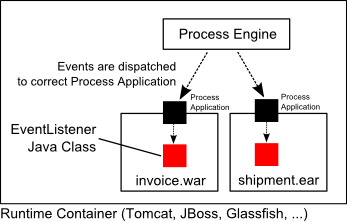
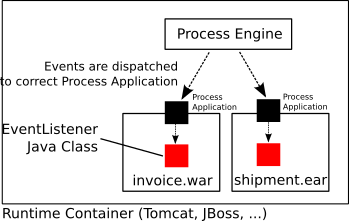
task(user guide): remove references to GlassFish
related to #CAM-6469

diff --git a/content/user-guide/process-applications/the-process-application-class.md b/content/user-guide/process-applications/the-process-application-class.md
@@ -13,7 +13,7 @@ menu:
 You can delegate the bootstrapping of the process engine and process deployment to a process application class. The basic ProcessApplication functionality is provided by the `org.camunda.bpm.application.AbstractProcessApplication` base class. Based on this class there is a set of environment-specific sub classes that realize integration within a specific environment:
 
 * **ServletProcessApplication**: To be used for process applications in a Servlet Container like Apache Tomcat.
-* **EjbProcessApplication**: To be used in a Java EE application server like JBoss, Glassfish or IBM WebSphere Application Server.
+* **EjbProcessApplication**: To be used in a Java EE application server like JBoss or IBM WebSphere Application Server.
 * **EmbeddedProcessApplication**: To be used when embedding the process engine in an ordinary Java SE application.
 * **SpringProcessApplication**: To be used for bootstrapping the process application from a Spring Application Context.
 
@@ -22,7 +22,7 @@ In the following section, we walk through the different implementations and disc
 
 # The ServletProcessApplication
 
-**Supported on:** Apache Tomcat, JBoss/Wildfly, GlassFish. The Servlet process application is supported on all containers. Read the [note about Servlet Process Application and EJB/Java EE containers]({{< relref "#using-the-servletprocessapplication-inside-an-ejb-java-ee-container-such-as-glassfish-or-jboss" >}})
+**Supported on:** Apache Tomcat, JBoss/Wildfly. The Servlet process application is supported on all containers. Read the [note about Servlet Process Application and EJB/Java EE containers]({{< relref "#using-the-servletprocessapplication-inside-an-ejb-java-ee-container-such-as-jboss" >}})
 
 **Packaging**: WAR (or embedded WAR inside EAR)
 
@@ -72,9 +72,9 @@ In a Pre-Servlet 3.0 container such as Apache Tomcat 6 (or JBoss Application Ser
 ```
 
 
-## Using the ServletProcessApplication Inside an EJB/Java EE Container such as Glassfish or JBoss
+## Using the ServletProcessApplication Inside an EJB/Java EE Container such as JBoss
 
-You can use the ServletProcessApplication inside an EJB / Java EE Container such as Glassfish or JBoss. Process application bootstrapping and deployment will work in the same way. However, you will not be able to use all Java EE features at runtime. In contrast to the `EjbProcessApplication` (see the next section), the `ServletProcessApplication` does not perform proper Java EE cross-application context switching. When the process engine invokes Java Delegates from your application, only the Context Class Loader of the current Thread is set to the classloader of your application. This does allow the process engine to resolve Java Delegate implementations from your application but the container will not perform an EE context switch to your application. As a consequence, if you use the ServletProcessApplciation inside a Java EE container, you will not be able to use features like:
+You can use the ServletProcessApplication inside an EJB / Java EE Container such as JBoss. Process application bootstrapping and deployment will work in the same way. However, you will not be able to use all Java EE features at runtime. In contrast to the `EjbProcessApplication` (see the next section), the `ServletProcessApplication` does not perform proper Java EE cross-application context switching. When the process engine invokes Java Delegates from your application, only the Context Class Loader of the current Thread is set to the classloader of your application. This does allow the process engine to resolve Java Delegate implementations from your application but the container will not perform an EE context switch to your application. As a consequence, if you use the ServletProcessApplciation inside a Java EE container, you will not be able to use features like:
 
   * using CDI beans and EJBs as JavaDelegate implementations in combination with the Job Executor,
   * using @RequestScoped CDI Beans with the Job Executor,
@@ -85,7 +85,7 @@ If your application does not use such features, it is perfectly fine to use the 
 
 # The EjbProcessApplication
 
-**Supported on:** JBoss/Wildfly, GlassFish. The EjbProcessApplication is supported on Java EE 6 containers or higher. It is not supported on Servlet Containers like Apache Tomcat. It may be adapted to work inside Java EE 5 Containers.
+**Supported on:** JBoss/Wildfly. The EjbProcessApplication is supported on Java EE 6 containers or higher. It is not supported on Servlet Containers like Apache Tomcat. It may be adapted to work inside Java EE 5 Containers.
 
 **Packaging:** JAR, WAR, EAR
 
@@ -276,7 +276,7 @@ When the EjbProcessApplication registers with a process engine (see `ManagementS
 
 # The EmbeddedProcessApplication
 
-**Supported on:** JVM, Apache Tomcat, JBoss/Wildfly, GlassFish
+**Supported on:** JVM, Apache Tomcat, JBoss/Wildfly
 
 **Packaging:** JAR, WAR, EAR
 
@@ -321,7 +321,7 @@ runtimeContainerDelegate.registerProcessEngine(processEngine);
 
 # The SpringProcessApplication
 
-**Supported on:** JVM, Apache Tomcat, GlassFish. The spring process application is currently not supported on JBoss AS 7/Wildfly 8
+**Supported on:** JVM, Apache Tomcat. The spring process application is currently not supported on JBoss AS 7/Wildfly 8
 
 **Packaging:** JAR, WAR, EAR
 

diff --git a/content/user-guide/process-engine/process-engine-bootstrapping.md b/content/user-guide/process-engine/process-engine-bootstrapping.md
@@ -25,7 +25,7 @@ You manage the process engine as part of your application. The following ways ex
 
 # Shared, Container Managed Process Engine
 
-A container of your choice (e.g., Tomcat, JBoss, GlassFish or IBM WebSphere) manages the process engine for you. The configuration is carried out in a container specific way, see [Runtime Container Integration]({{< relref "user-guide/runtime-container-integration/index.md" >}}) for details.
+A container of your choice (e.g., Tomcat, JBoss or IBM WebSphere) manages the process engine for you. The configuration is carried out in a container specific way, see [Runtime Container Integration]({{< relref "user-guide/runtime-container-integration/index.md" >}}) for details.
 
 
 ## ProcessEngineConfiguration Bean
@@ -128,7 +128,6 @@ All these `ProcessEngineConfiguration.createXXX()` methods return a `ProcessEngi
 The `bpm-platform.xml` file is used to configure the Camunda BPM platform in the following distributions:
 
 * Apache Tomcat
-* GlassFish Application Server
 * IBM WebSphere Application Server
 * Oracle WebLogic Application Server
 

diff --git a/content/user-guide/runtime-container-integration/jndi-bindings-for-bpmn-platform-services.md b/content/user-guide/runtime-container-integration/jndi-bindings-for-bpmn-platform-services.md
@@ -15,4 +15,4 @@ The BPM Platform Services (i.e., Process Engine Service and Process Application 
 * Process Engine Service: `java:global/camunda-bpm-platform/process-engine/ProcessEngineService!org.camunda.bpm.ProcessEngineService`
 * Process Application Service: `java:global/camunda-bpm-platform/process-engine/ProcessApplicationService!org.camunda.bpm.ProcessApplicationService`
 
-On Glassfish 3.1.1, JBoss AS 7 and Wildfly 8 / 10, you are able get any of these BPM Platform Services through a JNDI lookup. However, on Apache Tomcat 8 you have to do quite a bit more to be able to do a lookup to get one of these BPM Platform Services.
+On JBoss AS 7 and Wildfly 8 / 10, you are able get any of these BPM Platform Services through a JNDI lookup. However, on Apache Tomcat 8 you have to do quite a bit more to be able to do a lookup to get one of these BPM Platform Services.

diff --git a/content/user-guide/cdi-java-ee-integration/jta-transaction-integration.md b/content/user-guide/cdi-java-ee-integration/jta-transaction-integration.md
@@ -18,7 +18,7 @@ manager integration, you need to use the
   resolving support.
 
 > **Note 1**: The shared process engine distributions for Java EE Application Servers (Wildfly, JBoss,
-> Glassfish, IBM WebSphere Application Server, Oracle WebLogic Application Server) provide JTA
+>  IBM WebSphere Application Server, Oracle WebLogic Application Server) provide JTA
 > integration out of the box.
 
 > **Note 2**: The process engine requires access to an implementation of
